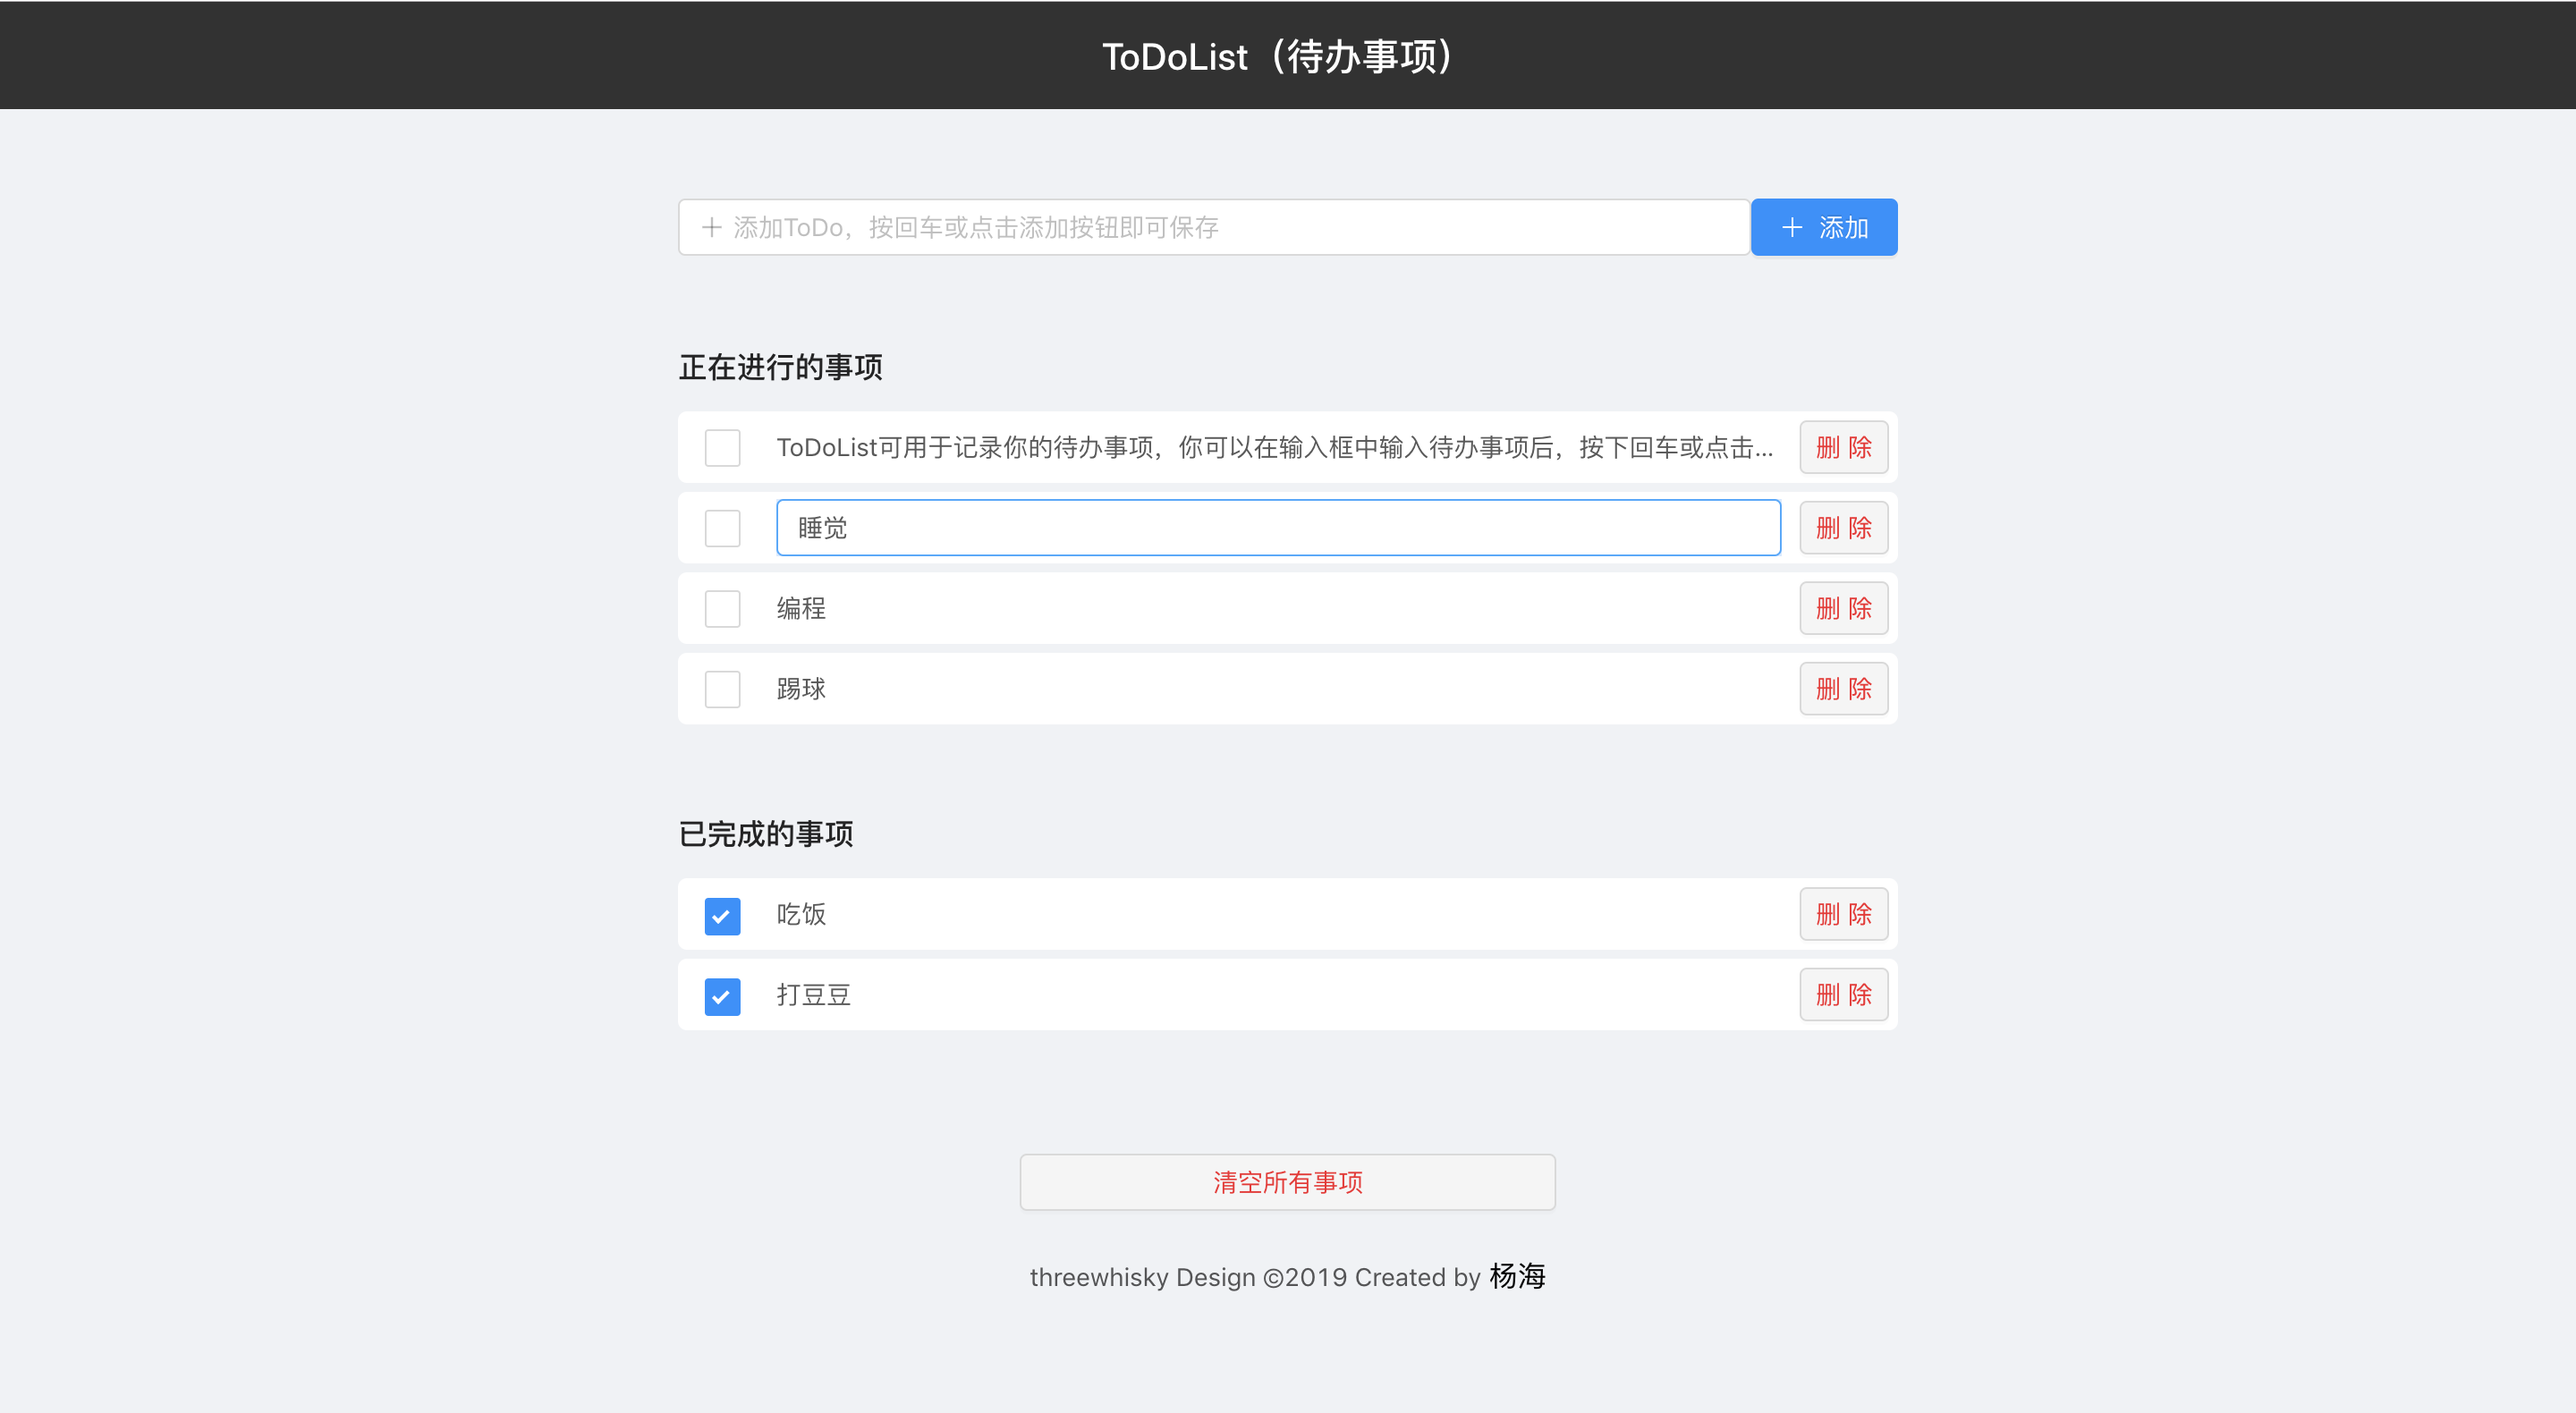
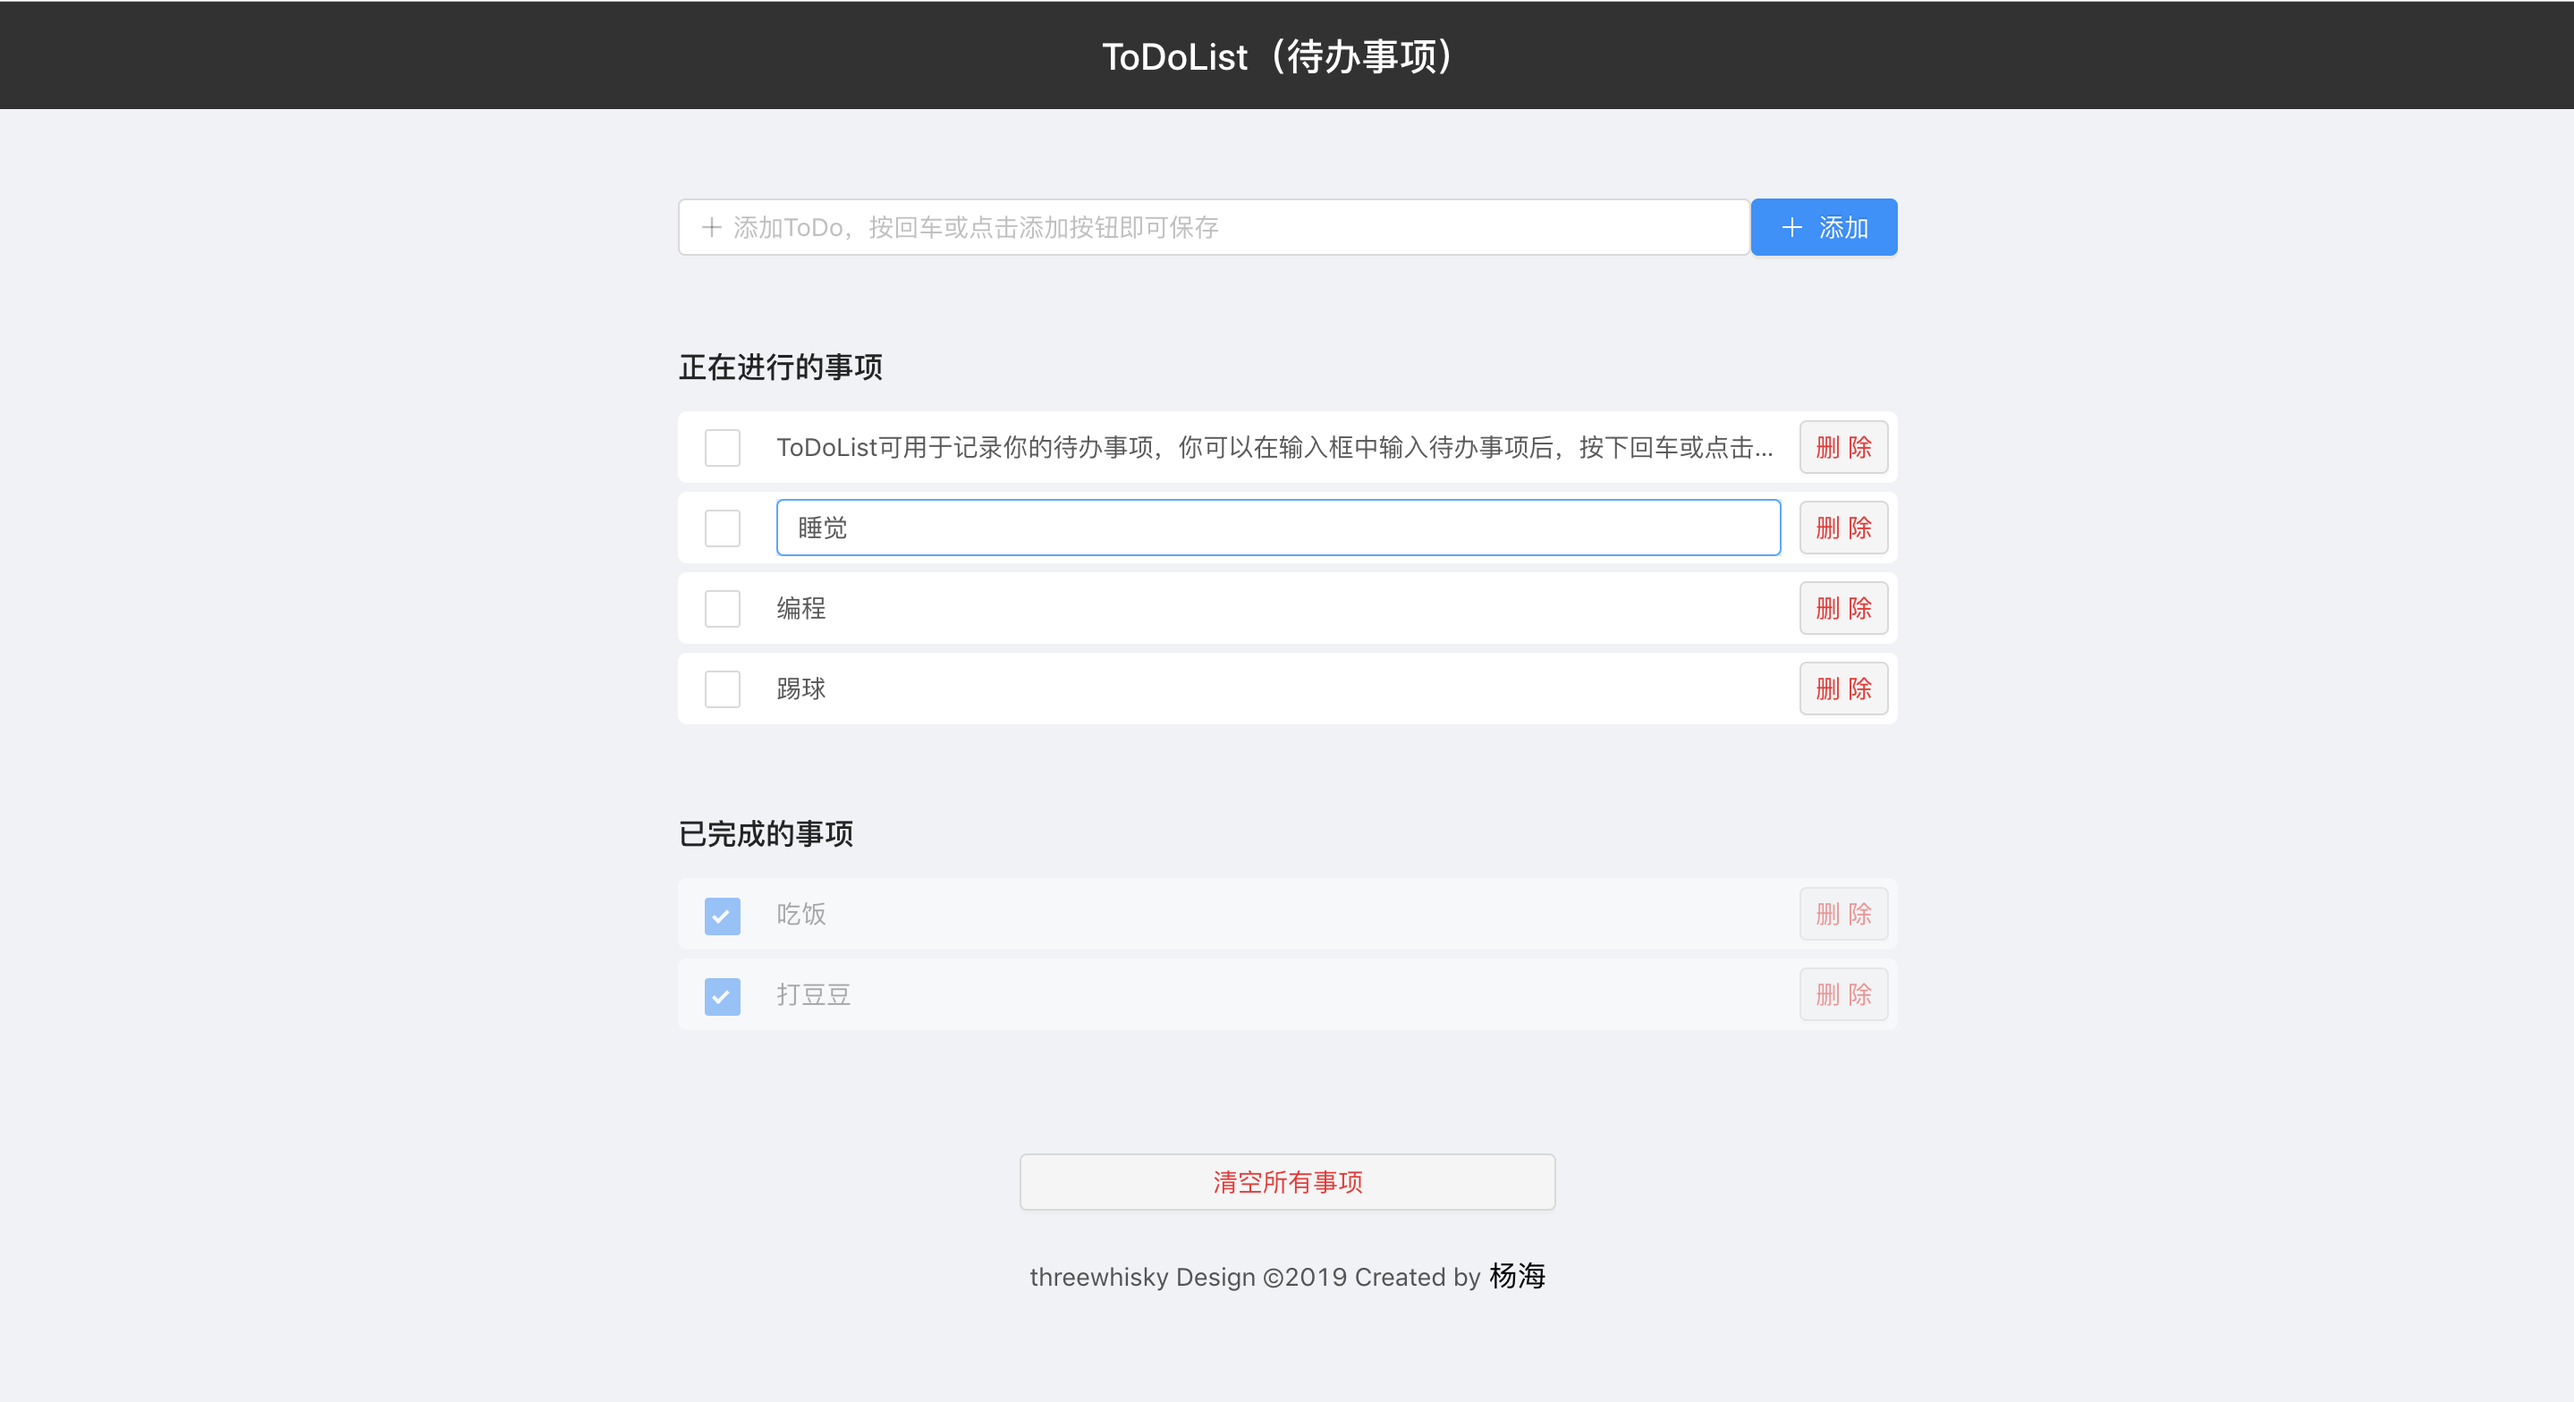
优化样式

diff --git a/src/serviceWorker.js b/src/serviceWorker.js
@@ -1,0 +1,135 @@
+// This optional code is used to register a service worker.
+// register() is not called by default.
+
+// This lets the app load faster on subsequent visits in production, and gives
+// it offline capabilities. However, it also means that developers (and users)
+// will only see deployed updates on subsequent visits to a page, after all the
+// existing tabs open on the page have been closed, since previously cached
+// resources are updated in the background.
+
+// To learn more about the benefits of this model and instructions on how to
+// opt-in, read https://bit.ly/CRA-PWA
+
+const isLocalhost = Boolean(
+  window.location.hostname === 'localhost' ||
+    // [::1] is the IPv6 localhost address.
+    window.location.hostname === '[::1]' ||
+    // 127.0.0.1/8 is considered localhost for IPv4.
+    window.location.hostname.match(
+      /^127(?:\.(?:25[0-5]|2[0-4][0-9]|[01]?[0-9][0-9]?)){3}$/
+    )
+);
+
+export function register(config) {
+  if (process.env.NODE_ENV === 'production' && 'serviceWorker' in navigator) {
+    // The URL constructor is available in all browsers that support SW.
+    const publicUrl = new URL(process.env.PUBLIC_URL, window.location.href);
+    if (publicUrl.origin !== window.location.origin) {
+      // Our service worker won't work if PUBLIC_URL is on a different origin
+      // from what our page is served on. This might happen if a CDN is used to
+      // serve assets; see https://github.com/facebook/create-react-app/issues/2374
+      return;
+    }
+
+    window.addEventListener('load', () => {
+      const swUrl = `${process.env.PUBLIC_URL}/service-worker.js`;
+
+      if (isLocalhost) {
+        // This is running on localhost. Let's check if a service worker still exists or not.
+        checkValidServiceWorker(swUrl, config);
+
+        // Add some additional logging to localhost, pointing developers to the
+        // service worker/PWA documentation.
+        navigator.serviceWorker.ready.then(() => {
+          console.log(
+            'This web app is being served cache-first by a service ' +
+              'worker. To learn more, visit https://bit.ly/CRA-PWA'
+          );
+        });
+      } else {
+        // Is not localhost. Just register service worker
+        registerValidSW(swUrl, config);
+      }
+    });
+  }
+}
+
+function registerValidSW(swUrl, config) {
+  navigator.serviceWorker
+    .register(swUrl)
+    .then(registration => {
+      registration.onupdatefound = () => {
+        const installingWorker = registration.installing;
+        if (installingWorker == null) {
+          return;
+        }
+        installingWorker.onstatechange = () => {
+          if (installingWorker.state === 'installed') {
+            if (navigator.serviceWorker.controller) {
+              // At this point, the updated precached content has been fetched,
+              // but the previous service worker will still serve the older
+              // content until all client tabs are closed.
+              console.log(
+                'New content is available and will be used when all ' +
+                  'tabs for this page are closed. See https://bit.ly/CRA-PWA.'
+              );
+
+              // Execute callback
+              if (config && config.onUpdate) {
+                config.onUpdate(registration);
+              }
+            } else {
+              // At this point, everything has been precached.
+              // It's the perfect time to display a
+              // "Content is cached for offline use." message.
+              console.log('Content is cached for offline use.');
+
+              // Execute callback
+              if (config && config.onSuccess) {
+                config.onSuccess(registration);
+              }
+            }
+          }
+        };
+      };
+    })
+    .catch(error => {
+      console.error('Error during service worker registration:', error);
+    });
+}
+
+function checkValidServiceWorker(swUrl, config) {
+  // Check if the service worker can be found. If it can't reload the page.
+  fetch(swUrl)
+    .then(response => {
+      // Ensure service worker exists, and that we really are getting a JS file.
+      const contentType = response.headers.get('content-type');
+      if (
+        response.status === 404 ||
+        (contentType != null && contentType.indexOf('javascript') === -1)
+      ) {
+        // No service worker found. Probably a different app. Reload the page.
+        navigator.serviceWorker.ready.then(registration => {
+          registration.unregister().then(() => {
+            window.location.reload();
+          });
+        });
+      } else {
+        // Service worker found. Proceed as normal.
+        registerValidSW(swUrl, config);
+      }
+    })
+    .catch(() => {
+      console.log(
+        'No internet connection found. App is running in offline mode.'
+      );
+    });
+}
+
+export function unregister() {
+  if ('serviceWorker' in navigator) {
+    navigator.serviceWorker.ready.then(registration => {
+      registration.unregister();
+    });
+  }
+}

diff --git a/src/components/ItemList/ItemList.css b/src/components/ItemList/ItemList.css
@@ -5,3 +5,8 @@
 .item_list{
   width: 100%;
 }
+
+/* 下面是给 已完成事项列表 设置透明属性 */
+.content_wrapper .complete_wrapper .complete_group ol{
+  opacity: 0.5;
+}

diff --git a/src/ToDoList.css b/src/ToDoList.css
@@ -16,6 +16,9 @@
   width: 682px;
 }
 
+
+
+
 /* 下面是设置清空列表按钮的样式 */
 .clear_all_item{
   display: flex;
